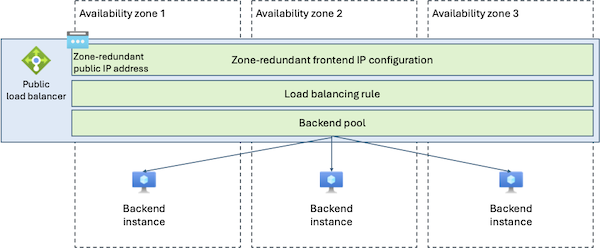
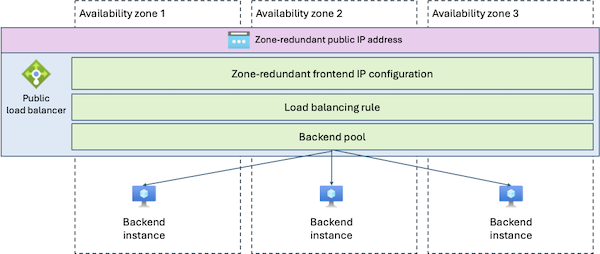
Update images

diff --git a/articles/reliability/reliability-load-balancer.md b/articles/reliability/reliability-load-balancer.md
@@ -79,11 +79,11 @@ Load Balancer provides two types of availability zone support: *zonal* and *zone
 
     The following diagram shows a zonal internal load balancer in availability zone 1, which is configured by creating a zonal public IP address in that zone:
     
-    :::image type="content" source="./media/reliability-load-balancer/zonal-public-load-balancer.png" alt-text="Diagram showing a zonal public load balancer in zone 1, with a zonal public IP address, directing traffic to three different VMs in zone 1." border="false" :::
+    :::image type="content" source="./media/reliability-load-balancer/zonal-public-load-balancer.png" alt-text="Diagram showing a zonal public load balancer in zone 1, with a zonal public IP address, directing traffic to two different VMs in zone 1." border="false" :::
 
     The following diagram shows an internal load balancer using a similar zone-redundant configuration:
 
-    :::image type="content" source="./media/reliability-load-balancer/zonal-internal-load-balancer.png" alt-text="Diagram showing a zonal internal load balancer in zone 1, directing traffic to three different VMs in zone 1." border="false" :::
+    :::image type="content" source="./media/reliability-load-balancer/zonal-internal-load-balancer.png" alt-text="Diagram showing a zonal internal load balancer in zone 1, directing traffic to two different VMs in zone 1." border="false" :::
 
 If you don't configure a load balancer to be zone-redundant or zonal, it's considered *nonzonal* or *regional*. Nonzonal load balancers can be placed in any availability zone within the region. If an availability zone in the region experiences an outage, nonzonal load balancers might be in the affected zone and could experience downtime.
 <!-- PG: When will nonzonal public IP addresses be retired (per https://azure.microsoft.com/en-us/blog/azure-public-ips-are-now-zone-redundant-by-default/)? I can still create one as of September 2025. -->
@@ -95,15 +95,18 @@ If you don't configure a load balancer to be zone-redundant or zonal, it's consi
 
 #### Backend instances and availability zones
 
-The availability zone configuration of your backend instances is independent of your load balancer's frontend IP configuration. 
+The availability zone configuration of your backend instances is independent of your load balancer's frontend IP configuration.
 
 Distribute your backend instances across zones by configuring the relevant service, in accordance with the reliability features of the service they belong to and the architecture that you design.
 
-For example, when you use Azure Virtual Machines, a common design approach for production workloads is to achieve zone resiliency by placing multiple zonal VMs in zones 1, 2, and 3. For load balancing, you can then create a zone-redundant load balancer and configure those VMs as the backend instances within the load balancer. The load balancer's health probes automatically remove unhealthy VMs from rotation regardless of their zone location.
-
-
 > [!NOTE]
 > Distributing backend instances across multiple availability zones is essential for resilience. If all backend instances are located in a single zone, an outage in that zone will make your application unavailable, even if you use a zone-redundant load balancer.
+
+For example, when you use Azure Virtual Machines, a common design approach for production workloads is to achieve zone resiliency by placing multiple zonal VMs in zones 1, 2, and 3. For load balancing, you can then create a zone-redundant load balancer and configure those VMs as the backend instances within the load balancer. The load balancer's health probes automatically remove unhealthy VMs from rotation regardless of their zone location.
+
+However, if you choose to deploy your VMs into the same availability zone, you can still deploy a zone-redundant frontend IP configuration on your load balancer, which the following diagram illustrates:
+
+:::image type="content" source="./media/reliability-load-balancer/zone-redundant-load-balancer-zonal-virtual-machines.png" alt-text="Diagram showing a zone-redundant public load balancer, directing traffic to two different VMs in zone 1." order="false" :::
 
 #### Multiple frontends on a single load balancer
 
